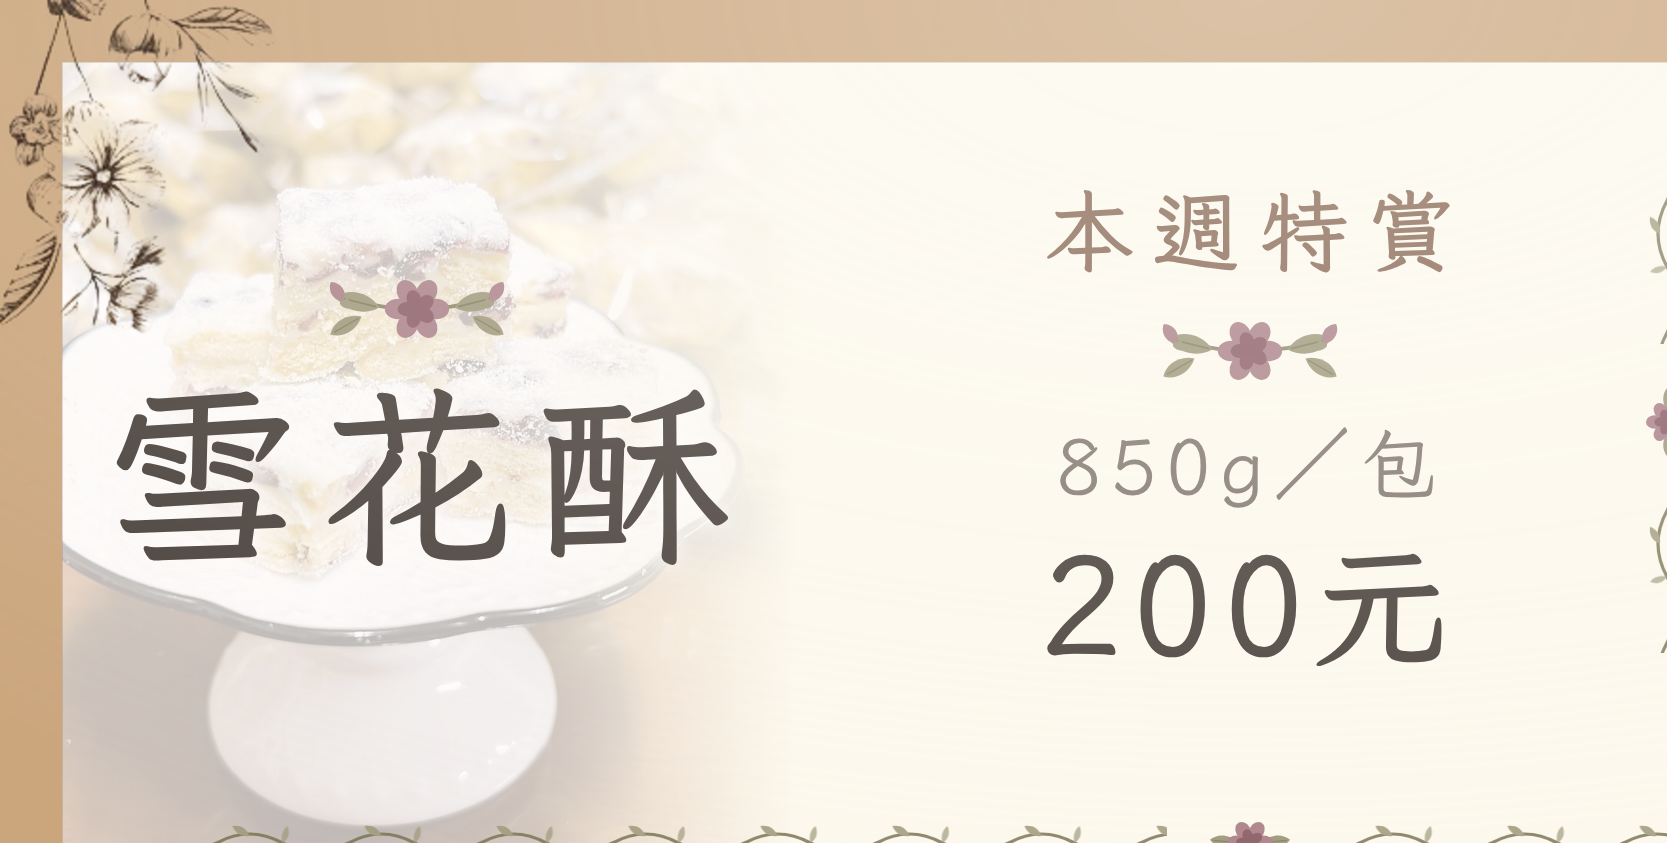
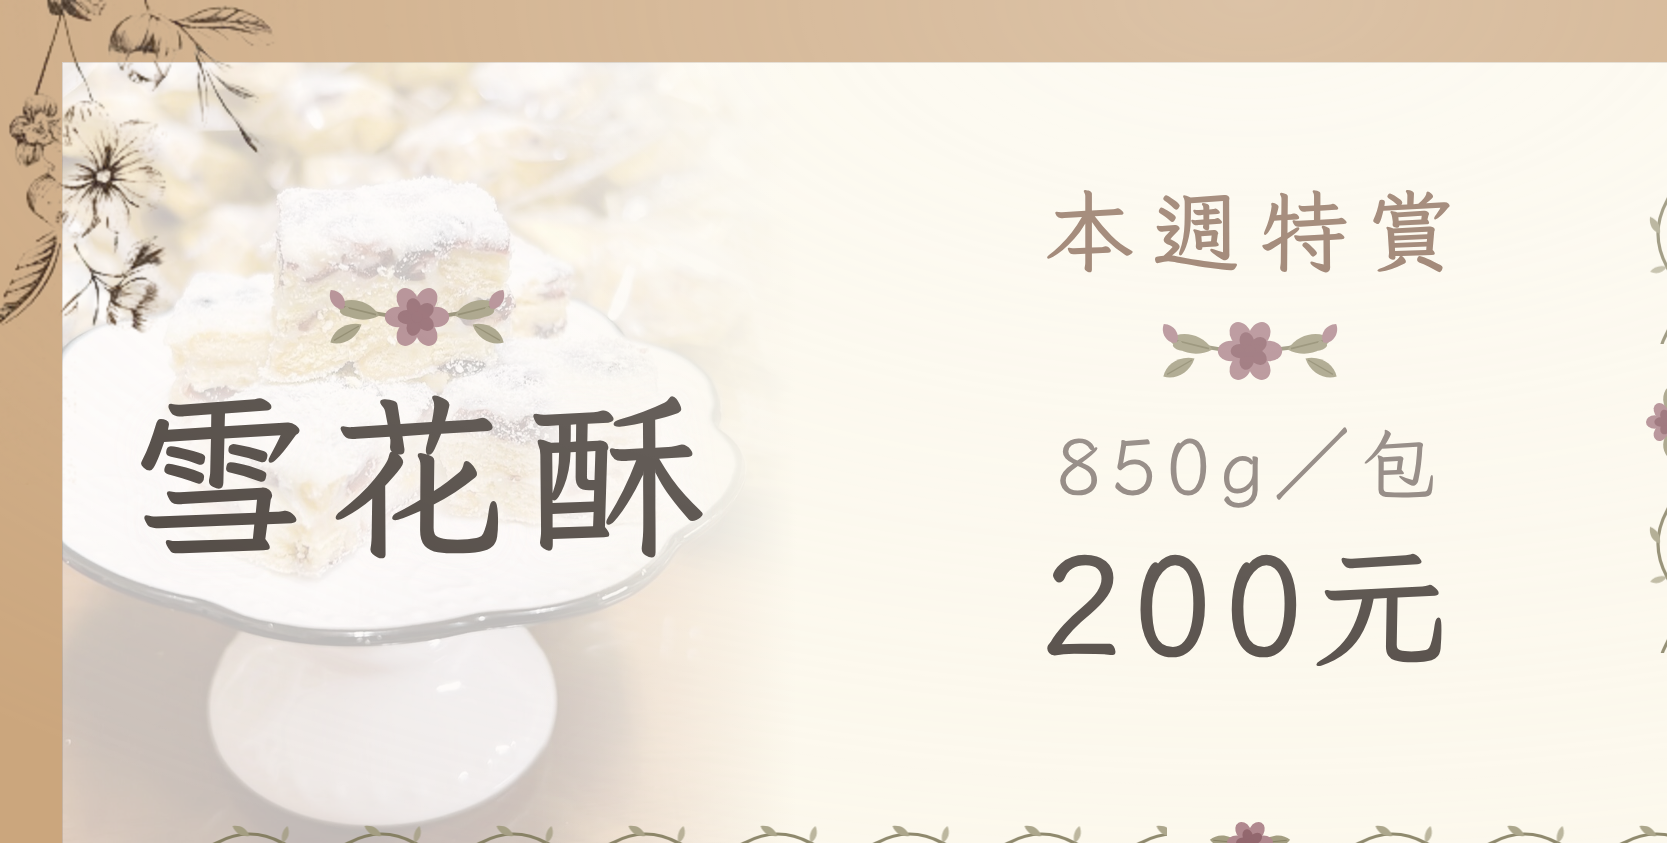
Stop the band from covering the captions
The tan band is drawn over the cells, so a caption has 833 − 62×2 to
work in, not 833. At 160px with 0.14em spacing a four-character caption
measures 752px, which put 21px of 聯絡我們 underneath the band — the 們
was being cut into, not merely crowded.

Captions drop to 142px at 0.10em, measured at 639px, leaving 35px clear.
The checker compared captions against the cell and never against the
band that overlaps it; it now checks both.

Claude-Session: https://claude.ai/code/session_01A5qo6pz84M1KAVHNuRqreg

Changed region(s): [[0.0624, 0.4626, 0.4367, 0.6785], [0.1872, 0.3393, 0.3119, 0.4009]]

diff --git a/生成/官方line/圖文選單/產生圖片.js b/生成/官方line/圖文選單/產生圖片.js
@@ -108,11 +108,12 @@ body{font-family:"${FONT}","Noto Serif TC",serif;color:var(--ink);background:var
 `;
 
 const FL=["var(--rose)","var(--rose2)","var(--sage)","var(--sage2)"];
-const sz=t=>160;
+const BAND=62, SAFE=22;   // 色帶寬、標題與色帶的最小間距
+const sz=t=>142;
 const cell=(t,img,x,y,w,h)=>`<div class="cell" style="left:${x}px;top:${y}px;width:${w}px;height:${h}px">
   ${img?`<div class="photo"><img src="${img}"></div>`:''}
   <div class="mid" style="gap:14px">${SPRIG(...FL,330)}
-    <div class="title" style="font-size:${sz(t)}px;letter-spacing:.14em;text-indent:.14em">${t}</div>
+    <div class="title" style="font-size:${sz(t)}px;letter-spacing:.10em;text-indent:.10em">${t}</div>
   </div></div>`;
 
 const weekly=(x,y,w,h)=>`<div class="cell" style="left:${x}px;top:${y}px;width:${w}px;height:${h}px;display:flex">
@@ -121,7 +122,7 @@ const weekly=(x,y,w,h)=>`<div class="cell" style="left:${x}px;top:${y}px;width:$
    <div style="position:absolute;right:0;top:0;width:300px;height:100%;z-index:1;
      background:linear-gradient(to right,rgba(253,250,247,0),var(--cream) 88%)"></div>
    <div class="mid" style="gap:14px">${SPRIG(...FL,300)}
-     <div class="title" style="font-size:196px;letter-spacing:.1em;text-indent:.1em">${WEEKLY.name}</div></div>
+     <div class="title" style="font-size:180px;letter-spacing:.1em;text-indent:.1em">${WEEKLY.name}</div></div>
  </div>
  <div style="position:relative;flex:1;height:100%;display:flex;flex-direction:column;
       align-items:center;justify-content:center;gap:18px">
@@ -160,8 +161,10 @@ ${vdiv(WIDE,0)}${vdiv(CW,CH)}${vdiv(WIDE,CH)}
  await p.evaluate(()=>document.fonts.ready);
  await p.waitForTimeout(4000);
  const bad=await p.evaluate(()=>{const r=[];
+   const BAND=62, SAFE=22, W=document.querySelector('.menu').clientWidth;
    document.querySelectorAll('.title,.eyebrow').forEach(e=>{const c=e.closest('.cell').getBoundingClientRect(),b=e.getBoundingClientRect();
-     if(b.left<c.left+34||b.right>c.right-34)r.push('文字太寬：'+e.textContent);});
+     if(b.left<c.left+20||b.right>c.right-20)r.push('文字超出格子：'+e.textContent);
+     if(b.left<BAND+SAFE||b.right>W-BAND-SAFE)r.push('文字太靠近色帶：'+e.textContent);});
    document.querySelectorAll('.div').forEach(d=>{const db=d.getBoundingClientRect();
      d.querySelectorAll('svg').forEach(s=>{const sb=s.getBoundingClientRect();
        if(sb.left<db.left-1||sb.right>db.right+1||sb.top<db.top-1||sb.bottom>db.bottom+1)r.push('紋飾超出分線框');});});
